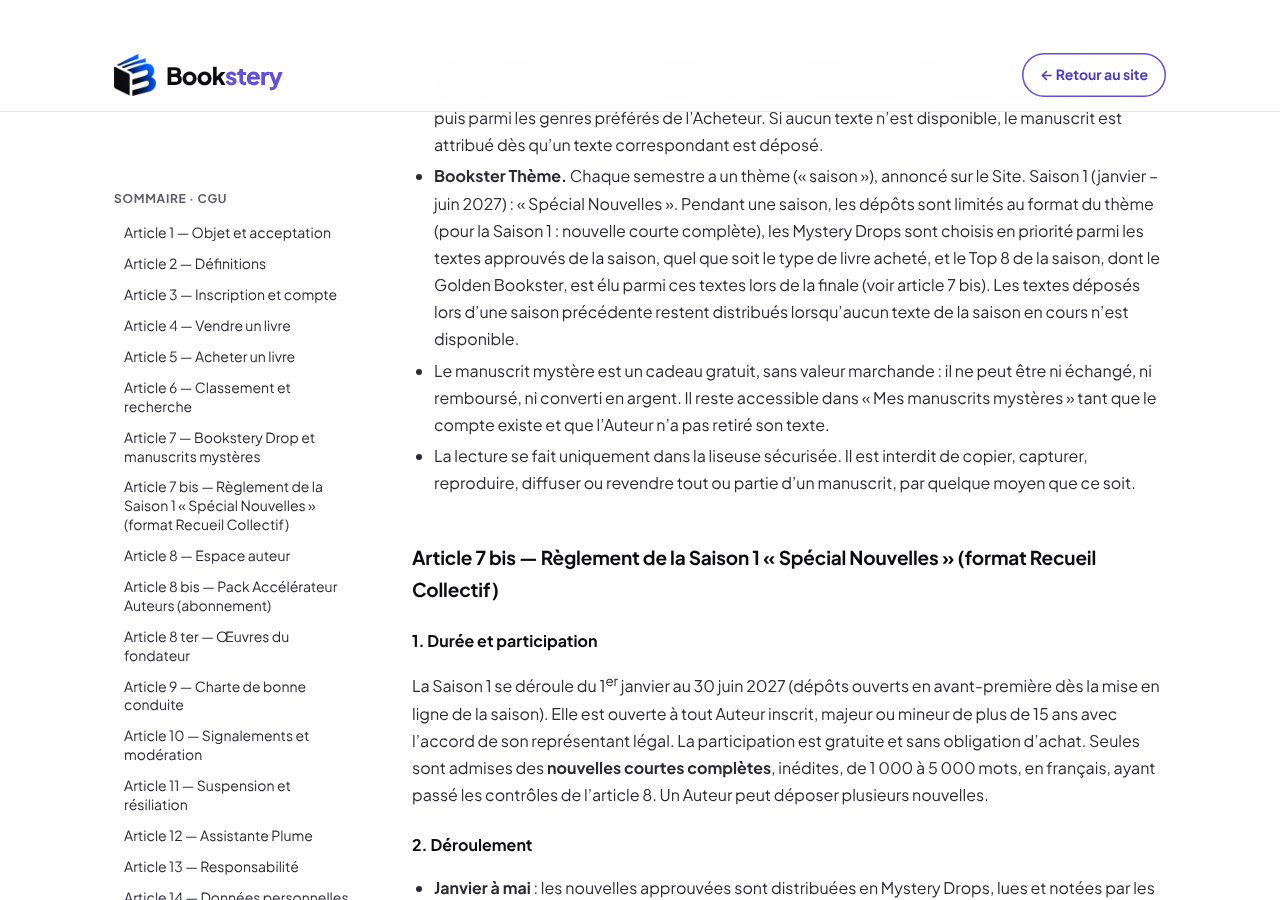
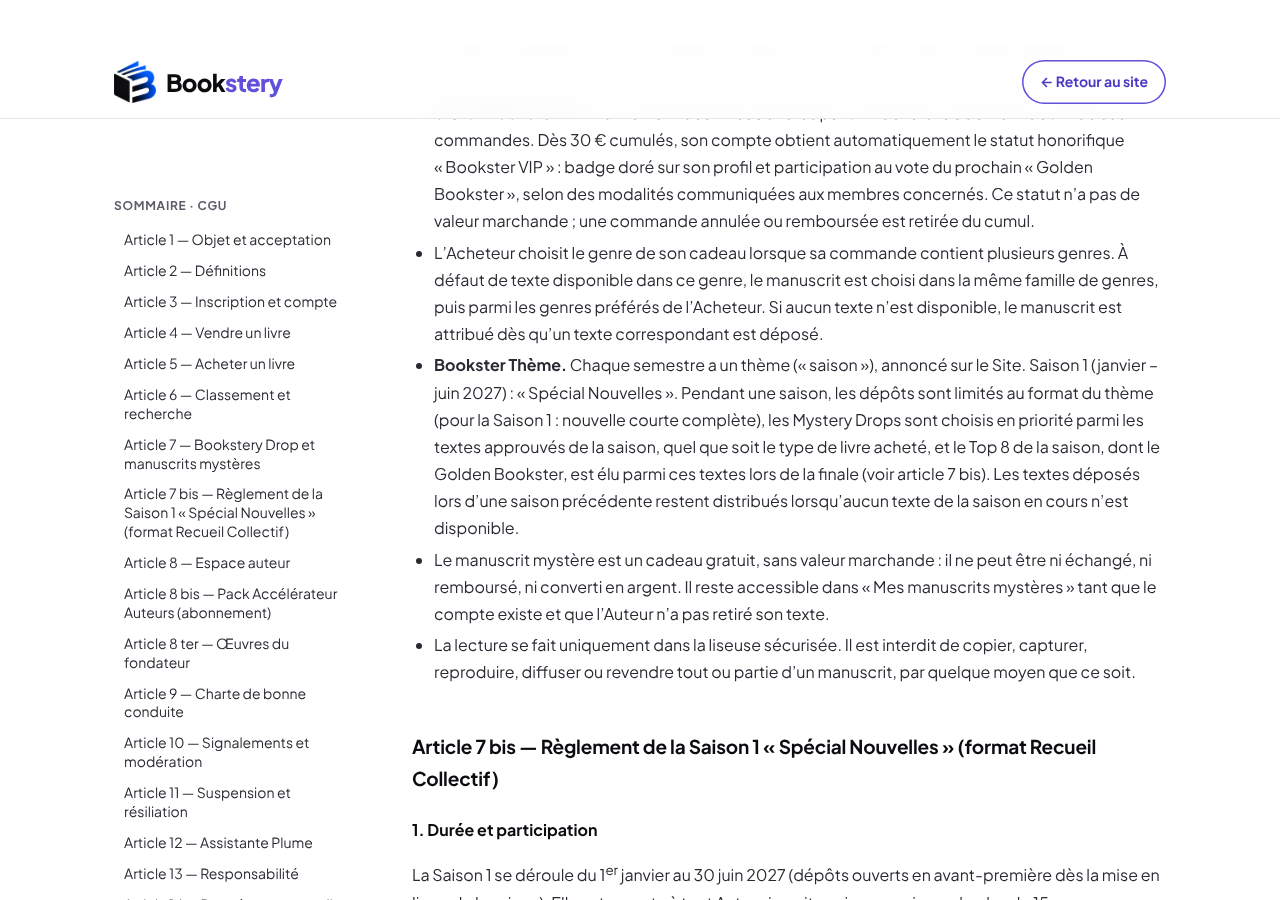
Golden Bookster : la nouvelle n°1 donne son titre au Recueil Collectif
Claude-Session: https://claude.ai/code/session_01EPa3evC84KLMU14gb8iTX3

Changed region(s): [[0.3125, 0.0622, 0.9062, 1.0], [0.0938, 0.2178, 0.2812, 1.0], [0.0938, 0.0622, 0.2188, 0.1244]]

diff --git a/index.html b/index.html
@@ -1274,7 +1274,7 @@ footer .legal{grid-column:1/-1;border-top:1px solid var(--line);padding-top:18px
   </div>
 
   <div class="wrap">
-    <div class="saison-slot" data-saison="accueil"><section class="saison accueil" aria-label="Bookster Thème Saison 1"><div class="sz-l"><span class="sz-k">✦ Bookster Thème · Saison 1 <i>(janvier – juin 2027)</i></span><h2 class="sz-t">Spécial Nouvelles</h2><p class="sz-p">Tous les Mystery Drops de cette saison mettent à l’honneur la nouvelle littéraire&nbsp;!</p><div class="sz-rc"><b class="sz-rc-t">📚 Format Recueil Collectif</b><ol class="sz-steps"><li><span>Janvier → mai</span>Les nouvelles déposées partent en Mystery Drops et sont lues, notées par les Booksters.</li><li><span>Juin · la finale</span>Les <b>Bookster VIP</b> élisent le <b>Top 8</b> des meilleures nouvelles de la saison.</li><li><span>Le palmarès</span>Le n°1 est sacré <b>🏆 Golden Bookster</b>, en tête d’affiche du livre, et les <b>8 lauréats</b> sont publiés ensemble dans le premier <b>Recueil Collectif Bookstery</b>, en librairie partenaire.</li></ol><a class="sz-reg" href="legal.html#c-saison1">Lire le règlement de la saison →</a></div><button class="sz-btn" type="button" data-auteur>Écrire ma nouvelle</button></div><div class="sz-ruban" role="note"><div class="sz-rt"><span class="sz-ri">🔒 Saison 2 · pas encore disponible</span><span class="sz-ri">Ouverture le 1er juillet 2027</span><span class="sz-ri">Thème bientôt dévoilé</span><span class="sz-ri">🔒 Saison 2 · pas encore disponible</span><span class="sz-ri">Ouverture le 1er juillet 2027</span><span class="sz-ri">Thème bientôt dévoilé</span><span class="sz-ri">🔒 Saison 2 · pas encore disponible</span><span class="sz-ri">Ouverture le 1er juillet 2027</span><span class="sz-ri">Thème bientôt dévoilé</span><span class="sz-ri">🔒 Saison 2 · pas encore disponible</span><span class="sz-ri">Ouverture le 1er juillet 2027</span><span class="sz-ri">Thème bientôt dévoilé</span></div></div></section></div>
+    <div class="saison-slot" data-saison="accueil"><section class="saison accueil" aria-label="Bookster Thème Saison 1"><div class="sz-l"><span class="sz-k">✦ Bookster Thème · Saison 1 <i>(janvier – juin 2027)</i></span><h2 class="sz-t">Spécial Nouvelles</h2><p class="sz-p">Tous les Mystery Drops de cette saison mettent à l’honneur la nouvelle littéraire&nbsp;!</p><div class="sz-rc"><b class="sz-rc-t">📚 Format Recueil Collectif</b><ol class="sz-steps"><li><span>Janvier → mai</span>Les nouvelles déposées partent en Mystery Drops et sont lues, notées par les Booksters.</li><li><span>Juin · la finale</span>Les <b>Bookster VIP</b> élisent le <b>Top 8</b> des meilleures nouvelles de la saison.</li><li><span>Le palmarès</span>Le n°1 est sacré <b>🏆 Golden Bookster</b>, qui donne son titre au livre, et les <b>8 lauréats</b> sont publiés ensemble dans le premier <b>Recueil Collectif Bookstery</b>, en librairie partenaire.</li></ol><a class="sz-reg" href="legal.html#c-saison1">Lire le règlement de la saison →</a></div><button class="sz-btn" type="button" data-auteur>Écrire ma nouvelle</button></div><div class="sz-ruban" role="note"><div class="sz-rt"><span class="sz-ri">🔒 Saison 2 · pas encore disponible</span><span class="sz-ri">Ouverture le 1er juillet 2027</span><span class="sz-ri">Thème bientôt dévoilé</span><span class="sz-ri">🔒 Saison 2 · pas encore disponible</span><span class="sz-ri">Ouverture le 1er juillet 2027</span><span class="sz-ri">Thème bientôt dévoilé</span><span class="sz-ri">🔒 Saison 2 · pas encore disponible</span><span class="sz-ri">Ouverture le 1er juillet 2027</span><span class="sz-ri">Thème bientôt dévoilé</span><span class="sz-ri">🔒 Saison 2 · pas encore disponible</span><span class="sz-ri">Ouverture le 1er juillet 2027</span><span class="sz-ri">Thème bientôt dévoilé</span></div></div></section></div>
     <div class="themes-slot" data-themes="accueil"><section class="bt accueil" aria-label="Le Grand Vote Saison 2"><div class="bt-l"><span class="bt-k">🗳 Le Grand Vote · Saison 2</span><h3 class="bt-t">Quel genre pour la Saison 2&nbsp;?</h3><p class="bt-p">Vote pour le genre de la prochaine saison&nbsp;: la communauté décide, et Bookstery l’écoute.</p><div class="bt-grid"><span class="bt-g">Aventure</span><span class="bt-g">BD</span><span class="bt-g">Classiques</span><span class="bt-g">Fantasy</span><span class="bt-g">Feel-good</span><span class="bt-g">Horreur</span><span class="bt-g">Manga</span><span class="bt-g">Nouvelles</span><span class="bt-g">Poésie</span><span class="bt-g">Polar</span><span class="bt-g">Romance</span><span class="bt-g">Science-fiction</span><span class="bt-g">Thriller</span><span class="bt-g">Young Adult</span></div></div><div class="bt-r"><div class="bt-live"><span class="bt-dot"></span>Tendances en direct</div><p class="bt-empty">Chargement des tendances…</p></div></section></div>
     <ul class="vprops" aria-label="Pourquoi Bookstery">
       <li><span class="vp-ico" aria-hidden="true"><svg width="22" height="22" viewBox="0 0 24 24" fill="none" stroke="currentColor" stroke-width="2" stroke-linecap="round" stroke-linejoin="round"><path d="M4 19.5V5a2 2 0 0 1 2-2h13v16H6a2 2 0 0 0-2 2.5Z"/><path d="M8 7h7M8 11h5"/></svg></span><div><b>Des livres d’occasion près de chez toi</b><span>Vendus par des Booksters, avec photos réelles de chaque exemplaire.</span></div></li>
@@ -1338,7 +1338,7 @@ footer .legal{grid-column:1/-1;border-top:1px solid var(--line);padding-top:18px
             <li><b>28&nbsp;€</b><span>4 Mystery Drops</span></li>
             <li class="max"><b>30&nbsp;€</b><span>5 Mystery Drops (max)</span></li>
           </ol>
-          <div class="dv-badge"><span>👑</span><div><b>Statut Bookster VIP</b><small>Dès 30&nbsp;€ de livres achetés au total, toutes commandes confondues&nbsp;: badge doré sur ton profil et vote pour la finale du <b class="gb-word">Golden Bookster</b>.</small><span class="gb-def"><svg width="22" height="18" viewBox="0 0 22 18" fill="none" aria-hidden="true"><path d="M3 2v6a5 5 0 0 0 5 5h10" stroke="currentColor" stroke-width="2.2" stroke-linecap="round"/><path d="M14 9l4 4-4 4" stroke="currentColor" stroke-width="2.2" stroke-linecap="round" stroke-linejoin="round"/></svg><span><b>Golden Bookster</b>&nbsp;: la nouvelle élue n°1 par les Bookster VIP lors de la finale de la saison, en tête d’affiche du Recueil Collectif Bookstery publié en librairie partenaire.</span></span></div></div>
+          <div class="dv-badge"><span>👑</span><div><b>Statut Bookster VIP</b><small>Dès 30&nbsp;€ de livres achetés au total, toutes commandes confondues&nbsp;: badge doré sur ton profil et vote pour la finale du <b class="gb-word">Golden Bookster</b>.</small><span class="gb-def"><svg width="22" height="18" viewBox="0 0 22 18" fill="none" aria-hidden="true"><path d="M3 2v6a5 5 0 0 0 5 5h10" stroke="currentColor" stroke-width="2.2" stroke-linecap="round"/><path d="M14 9l4 4-4 4" stroke="currentColor" stroke-width="2.2" stroke-linecap="round" stroke-linejoin="round"/></svg><span><b>Golden Bookster</b>&nbsp;: la nouvelle élue n°1 par les Bookster VIP lors de la finale de la saison, qui donne son titre au Recueil Collectif Bookstery, publié en librairie partenaire.</span></span></div></div>
           <p class="dv-note">Tous vendeurs confondus&nbsp;: chaque livre compte.</p>
         </div>
       </div>
@@ -3589,7 +3589,7 @@ function saisonBanner(ctx){var c=saisonCourante();if(!c)return"";var nx=saisonSu
     '<h2 class="sz-t">'+esc(c.theme)+'</h2>'+
     '<p class="sz-p">'+esc(c.accroche)+(avant?" <span class=\"sz-pre\">Avant-première : les dépôts sont déjà ouverts.</span>":"")+'</p>'+
     (ctx==="auteur"?'<p class="sz-lock">🔒 Dépôts de la saison : <b>format '+esc(c.formatNom||"libre")+'</b> uniquement.</p>':"")+
-    (c.recueil?'<div class="sz-rc"><b class="sz-rc-t">📚 Format Recueil Collectif</b><ol class="sz-steps"><li><span>Janvier → mai</span>Les nouvelles déposées partent en Mystery Drops et sont lues, notées par les Booksters.</li><li><span>Juin · la finale</span>Les <b>Bookster VIP</b> élisent le <b>Top 8</b> des meilleures nouvelles de la saison.</li><li><span>Le palmarès</span>Le n°1 est sacré <b>🏆 Golden Bookster</b>, en tête d’affiche du livre, et les <b>8 lauréats</b> sont publiés ensemble dans le premier <b>Recueil Collectif Bookstery</b>, en librairie partenaire.</li></ol><a class="sz-reg" href="legal.html#c-saison1">Lire le règlement de la saison →</a></div>':"")+
+    (c.recueil?'<div class="sz-rc"><b class="sz-rc-t">📚 Format Recueil Collectif</b><ol class="sz-steps"><li><span>Janvier → mai</span>Les nouvelles déposées partent en Mystery Drops et sont lues, notées par les Booksters.</li><li><span>Juin · la finale</span>Les <b>Bookster VIP</b> élisent le <b>Top 8</b> des meilleures nouvelles de la saison.</li><li><span>Le palmarès</span>Le n°1 est sacré <b>🏆 Golden Bookster</b>, qui donne son titre au livre, et les <b>8 lauréats</b> sont publiés ensemble dans le premier <b>Recueil Collectif Bookstery</b>, en librairie partenaire.</li></ol><a class="sz-reg" href="legal.html#c-saison1">Lire le règlement de la saison →</a></div>':"")+
     (ctx==="accueil"?'<button class="sz-btn" type="button" data-auteur>Écrire ma nouvelle</button>':"")+'</div>'+
     (nx?szRuban(nx):"")+
   '</section>'}

diff --git a/supabase/functions/aide/faq.ts b/supabase/functions/aide/faq.ts
@@ -21,7 +21,7 @@ Bookstery est une plateforme lyonnaise, éthique et circulaire, qui donne une se
 - Genre de secours : s'il n'existe aucun texte dans ce genre, le manuscrit vient de la même famille (Imaginaire : Fantasy, Fantastique, Science-fiction, Horreur ; Polar & Thriller ; Littérature : Romans, Romance, Roman historique, Feel-good, Aventure, Humour, Classiques, Nouvelles, Théâtre, Poésie ; Jeunesse : Jeunesse, Young Adult, Contes & Légendes). Sinon, le Bookster choisit parmi ses genres préférés.
 
 # Bookster Thème (saisons)
-- Chaque semestre a un thème. Saison 1 (janvier – juin 2027) : « Spécial Nouvelles » : tous les Mystery Drops de la saison mettent à l'honneur la nouvelle littéraire. Les auteurs ne peuvent déposer que des nouvelles courtes complètes pendant la saison, Format Recueil Collectif : lors de la finale du mois 6 (juin 2027), les Bookster VIP élisent le Top 8 des meilleures nouvelles ; le n°1 est sacré Golden Bookster (en tête d'affiche du livre) et les 8 lauréats sont publiés ensemble dans le premier Recueil Collectif Bookstery, en librairie partenaire. Règlement : article 7 bis des CGU. Dès 10 € d'achat, quel que soit le livre, le Mystery Drop est une nouvelle approuvée de la saison. Saison 2 : juillet – décembre 2027, thème bientôt dévoilé (compte à rebours sur l'accueil et dans l'Espace auteur).
+- Chaque semestre a un thème. Saison 1 (janvier – juin 2027) : « Spécial Nouvelles » : tous les Mystery Drops de la saison mettent à l'honneur la nouvelle littéraire. Les auteurs ne peuvent déposer que des nouvelles courtes complètes pendant la saison, Format Recueil Collectif : lors de la finale du mois 6 (juin 2027), les Bookster VIP élisent le Top 8 des meilleures nouvelles ; le n°1 est sacré Golden Bookster (dont la nouvelle donne son titre au livre) et les 8 lauréats sont publiés ensemble dans le premier Recueil Collectif Bookstery, en librairie partenaire. Règlement : article 7 bis des CGU. Dès 10 € d'achat, quel que soit le livre, le Mystery Drop est une nouvelle approuvée de la saison. Saison 2 : juillet – décembre 2027, thème bientôt dévoilé (compte à rebours sur l'accueil et dans l'Espace auteur).
 
 - Le Grand Vote : sur l'accueil et dans « Mon espace », chaque membre connecté peut voter UNE fois pour le genre de la saison suivante en cliquant sur un genre (les genres utilitaires ne sont pas proposés). Les 3 thèmes les plus demandés s'affichent en direct avec leur nombre de votes.
 

diff --git a/legal.html b/legal.html
@@ -224,7 +224,7 @@ footer a{color:var(--muted)}
       <ul>
         <li><b>Janvier à mai</b> : les nouvelles approuvées sont distribuées en Mystery Drops, lues et notées par les Booksters.</li>
         <li><b>Juin — la finale</b> : les Booksters ayant le statut Bookster VIP au 1<sup>er</sup> juin votent pour élire le <b>Top 8</b> des meilleures nouvelles de la saison, parmi une sélection établie à partir des notes et avis des lecteurs. Chaque Bookster VIP dispose d’un vote ; les modalités précises (liste des finalistes, dates, nombre de choix) sont annoncées sur le Site au plus tard le 1<sup>er</sup> juin 2027. En cas d’égalité, les nouvelles sont départagées par leur note moyenne des lecteurs.</li>
-        <li><b>Le palmarès</b> : la nouvelle classée n°1 est sacrée <b>Golden Bookster</b> de la saison et figure en tête d’affiche du livre. Les <b>8 nouvelles lauréates</b> sont publiées ensemble dans le premier <b>Recueil Collectif Bookstery</b>, édité avec une maison d’édition ou une librairie partenaire et vendu en librairie partenaire.</li>
+        <li><b>Le palmarès</b> : la nouvelle classée n°1 est sacrée <b>Golden Bookster</b> de la saison et figure donne son titre au Recueil Collectif et y figure en tête d’affiche. Les <b>8 nouvelles lauréates</b> sont publiées ensemble dans le premier <b>Recueil Collectif Bookstery</b>, édité avec une maison d’édition ou une librairie partenaire et vendu en librairie partenaire.</li>
       </ul>
       <h4>3. Lauréats et publication</h4>
       <p>Les lauréats sont informés par e-mail et sur le Site. Leur publication dans le Recueil Collectif fait l’objet d’un <b>contrat d’édition distinct</b>, conforme au Code de la propriété intellectuelle, conclu avec l’éditeur partenaire et précisant notamment la rémunération des Auteurs <span class="todo">[droits d’auteur, à-valoir, exemplaires d’auteur]</span>. Un lauréat qui ne souhaite pas être publié peut refuser : la nouvelle classée suivante le remplace. Les textes restent la propriété de leurs Auteurs.</p>

diff --git a/README.md b/README.md
@@ -236,4 +236,4 @@ Sur l'accueil (sous la bannière de la saison) et dans « Mon espace » :
 
 ## Saison 1 : format Recueil Collectif
 
-Bannière (accueil + Espace auteur) : 3 étapes — janvier → mai (Mystery Drops, lectures, notes) ; juin, la finale (les Bookster VIP élisent le Top 8) ; le palmarès (n°1 sacré **Golden Bookster**, en tête d'affiche ; les 8 lauréats publiés dans le premier **Recueil Collectif Bookstery**, en librairie partenaire). Règlement complet : CGU, article 7 bis (`legal.html#c-saison1`). Le vote de la finale reste à construire avant juin 2027.
+Bannière (accueil + Espace auteur) : 3 étapes — janvier → mai (Mystery Drops, lectures, notes) ; juin, la finale (les Bookster VIP élisent le Top 8) ; le palmarès (n°1 sacré **Golden Bookster**, sa nouvelle donne son titre au livre ; les 8 lauréats publiés dans le premier **Recueil Collectif Bookstery**, en librairie partenaire). Règlement complet : CGU, article 7 bis (`legal.html#c-saison1`). Le vote de la finale reste à construire avant juin 2027.
